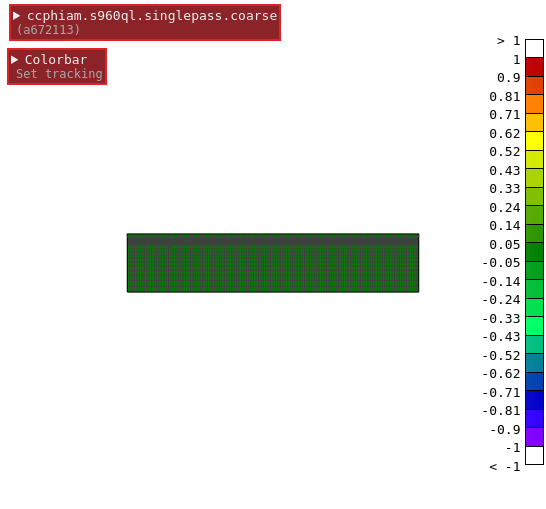
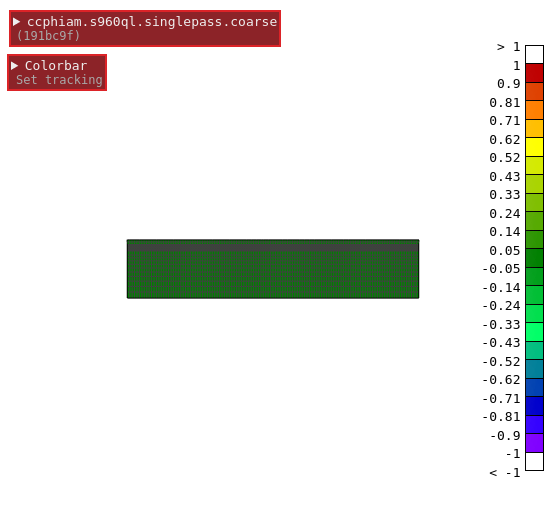
pictures in readme

Changed region(s): [[0.8718, 0.0589, 0.9963, 0.943], [0.2179, 0.442, 0.7784, 0.5894], [0.0, 0.0, 0.5293, 0.1768]]

diff --git a/README.md b/README.md
@@ -139,6 +139,23 @@ opening this link in a web browser, we are greeted with this view:
 
 ![A first glance at a fresh scene.](doc/readme_stuff/first_view.png)
 
+A click on the dataset reveals a small control menu.
+
+![A click on the dataset reveals a small control
+menu](doc/readme_stuff/open_dataset.png)
+
+
+change_orientation_moved.png
+change_orientation.png
+colorbar_lock_to_current.png
+colorbar_lock_to_values.png
+colorbar_track_dataset.png
+
+
+show_field_prefix.png
+show_fields.png
+show_timesteps.png
+track_updates.png
 
 
 ## Use in conjunction with the `platt-ceph-gateway` ##
